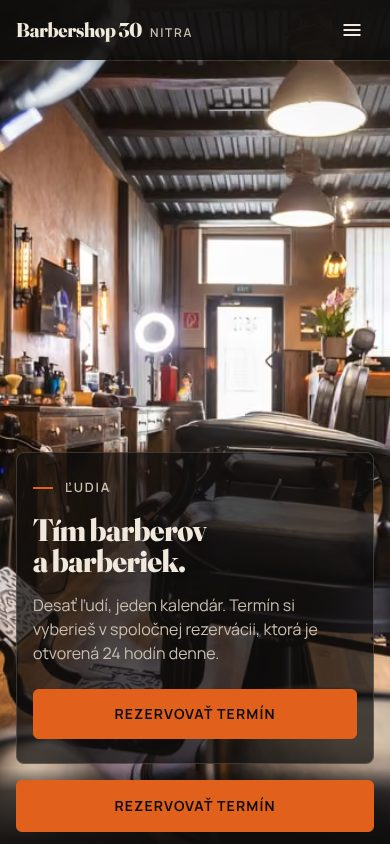
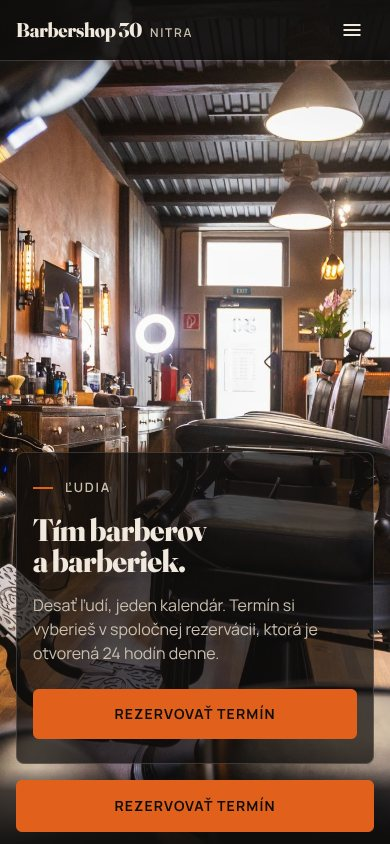
BARBERSHOP 30: záznam kontrol ostrosti a prechodov, snímky úvodu, prechodov a scén na telefóne

diff --git a/barbershop-30/docs/CHECKS.md b/barbershop-30/docs/CHECKS.md
@@ -59,6 +59,41 @@ Prvý čitateľný obraz je teda hlboko pod cieľom 1,5 MB; prológ sa sťahuje 
 LCP/CLS Lighthouse: lokálne nemerané (bez Lighthouse); CLS: zálohy aj plátno majú pevné
 rozmery, doska úvodu nastupuje len animáciou `transform/opacity`.
 
+## 6. Maximálny detail a prechody (2026‑10‑09, druhá verzia)
+
+**Zábery**: `source/tools/film.py` – stupne 1086/1448/2172/2896 px (fasáda `vstup` aj 4096),
+AVIF q66 / WebP q84, nič sa nezväčšuje nad originál; pre telefón výrezy na výšku 9 : 16 okolo bodu
+záujmu (`<meno>-m-{1086,1448}` + vlastná hĺbková mapa; rohožka z foto‑30 na výšku). 14 záberov,
+`assets/img/film` 39 MB na disku (sťahuje sa vždy len to, čo zariadenie potrebuje).
+
+**Ostrosť** – `node source/tools/ostrost.mjs --a=<naživo stará> --shots=sala,kreslo,recepcia`
+(telefón 390×844 @3×, počítač 1440×900 @2×, film na rovnakej polohe, rozptyl Laplaciánu v strede
+obrazu; väčšie = viac detailu; rôzna kompozícia výrezu číslo ovplyvňuje, preto aj výrezy 1 : 1
+v `docs/screenshots/ostrost/`):
+
+| záber | telefón pred (1448 px na šírku) | telefón po (výrez -m 1448) | počítač pred (2172) | počítač po (2896) |
+|---|---|---|---|---|
+| recepcia | 402 | **512** | 284 | **394** |
+| kreslo (plytká hĺbka ostrosti) | 7 | **23** | 37 | **55** |
+| sála | 560 | 546 (iná kompozícia výrezu) | 176 | 174 |
+
+Výrezy 1 : 1 (`ostrost/porovnanie-mobil-recepcia.jpg`, `porovnanie-desktop-recepcia.jpg`): neónový
+nápis a lamely na telefóne predtým rozmazané, teraz kreslené bod na bod; na počítači ostrejšie hrany
+kruhového svetla a obrazu. Film na telefóne kreslí plátno 2× (strop `dpr` 2), textúra výrezu
+1448 px pokrýva 1,24 šírky okna.
+
+**Prechod cez priestor** – `node source/tools/prechod-shot.mjs` (desktop + mobil, dvojice sála →
+kreslo a sud → vstup, prechod zastavený na 0 / 0,25 / 0,5 / 0,75 / 1 cez `BS30_FILM.fadeFreeze`):
+snímky `docs/screenshots/prechod-*.jpg`. Ďaleký koniec nového záberu sa vynára prvý, blízke kreslo
+starého záberu mizne posledné, nič nie je rozmazané, v strede 82 % jasu. Ten istý prechod má prológ
+(`uvod-*-s050.jpg`: interiér sa vynára cez dvere).
+
+**Hook úvodu a telefón**: filmové pásy počas prológu (`uvod-mobile-s018.jpg`, `uvod-desktop-pred-filmom.jpg`),
+choreografia nadpisu, doska pláva nad filmom (±14 px), kompaktná doska na telefóne („Zavolať“ ako
+odkaz, hlavné tlačidlo v spodnej lište), výzva „Prejdi si podnik“ nad lištou (`uvod-mobile-s100.jpg`).
+Dymový test po zmenách: všetky kontroly prešli; úvod (desktop + mobil) prechádza polohami 0 → 1,
+na telefóne so zábermi `vstup-m` → `rohozka-m`.
+
 ## 5. Čo ostáva overiť naživo
 
 - Po nasadení: `curl` hlavných súborov (index, style.css, app.js, film.js, three, prvé zábery,
